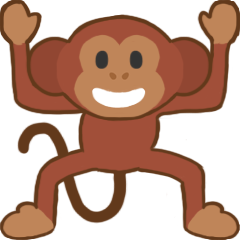
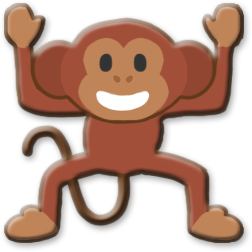
everything 3d plus little orientation bug fix

diff --git a/www/js/myscenes/StartScreen.js b/www/js/myscenes/StartScreen.js
@@ -144,7 +144,7 @@ var StartScreen = (function (drawClouds, drawIcons, Width, Height, Font, drawBut
             });
 
             var isFs = self.device.requestFullScreen();
-            var locked = self.device.lockOrientation('portrait-primary');
+            var locked = self.device.isMobile ? self.device.lockOrientation('portrait-primary') : false;
 
             if (!locked && self.device.isMobile) {
 
